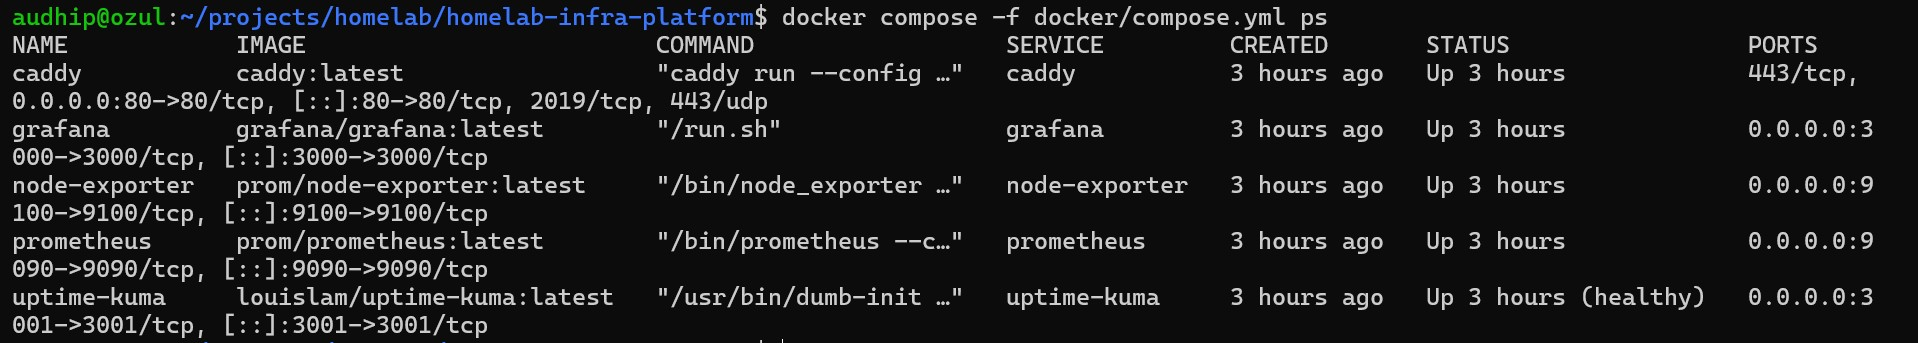
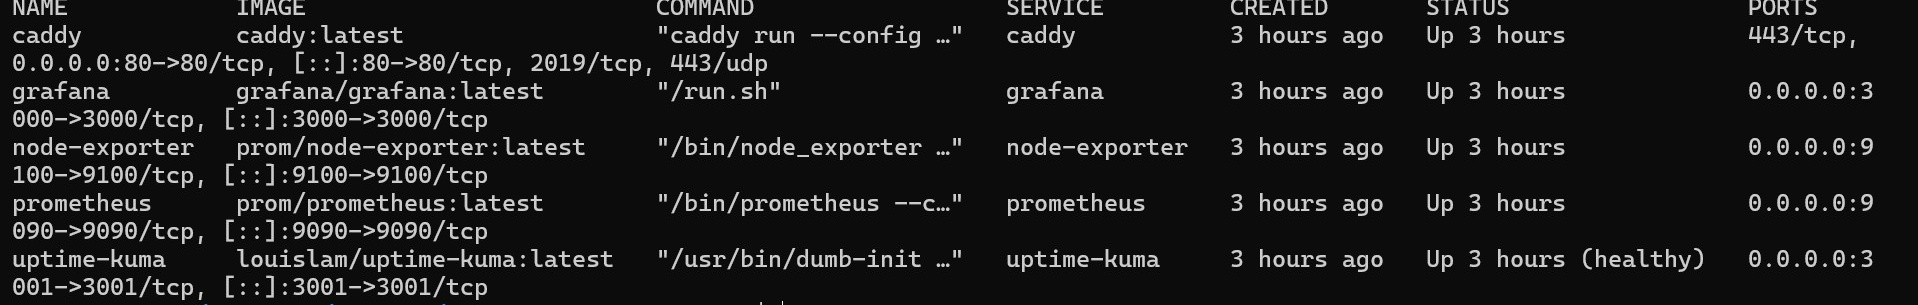
Update homelab docs and validation paths

diff --git a/homelab-infra-platform/docs/network-map.md b/homelab-infra-platform/docs/network-map.md
@@ -64,9 +64,3 @@ Prometheus :9090
        |
        +--> Node Exporter :9100
 ```
-
-## Screenshots
-
-Tailscale machines view for the remote access path:
-
-![Tailscale machines](screenshots/tailscale-machines.png)